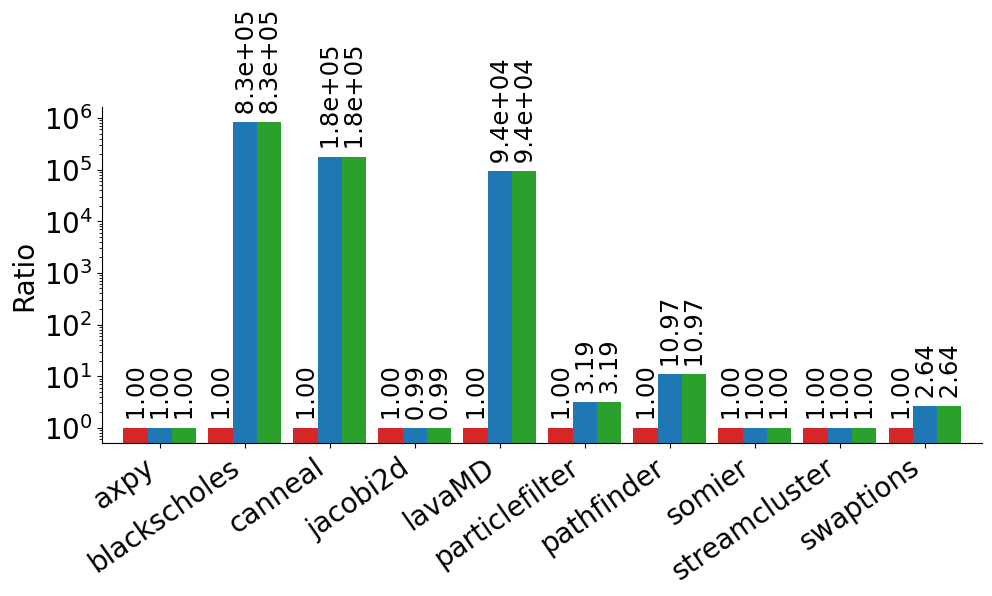
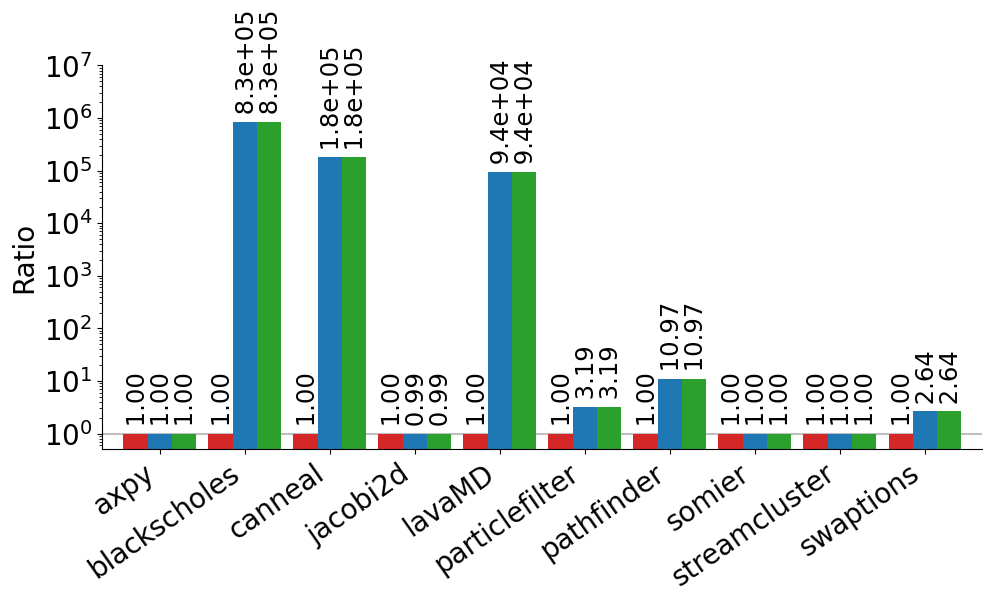
Formatted plots better

diff --git a/additionalPostProcessing/plot_ratios.py b/additionalPostProcessing/plot_ratios.py
@@ -1,7 +1,14 @@
+from matplotlib import ticker
 import pandas as pd
 import matplotlib.pyplot as plt
 import os
 
+def custom_formatter(value, pos):
+    if value < 1:
+        return f'{value:.3f}%'
+    else:
+        return f'{value:.0f}%'
+    
 def create_bar_plot(csv_file, output_dir='figures', plot_filename='bar_plot.png'):
     # Read the CSV file into a DataFrame
     df = pd.read_csv(csv_file)
@@ -29,10 +36,13 @@ def create_bar_plot(csv_file, output_dir='figures', plot_filename='bar_plot.png'
     # Customize the plot
     ax.set_xlabel('', fontsize=20)
     if 'ratio' in csv_file:
+        ax.set_ylim(top=10000000)
         ax.set_ylabel('Ratio', fontsize=20)
         # plt.title(f"Vectorization Ratio", fontsize=20, y=1.25)
     else:
+        ax.set_ylim(top=100)
         ax.set_ylabel('Percentage', fontsize=20)
+        ax.yaxis.set_major_formatter(ticker.FuncFormatter(custom_formatter))
         # plt.title(f"Percentage Of Vectorial Instructions", fontsize=20, y=1.25)
         
         
@@ -63,6 +73,7 @@ def create_bar_plot(csv_file, output_dir='figures', plot_filename='bar_plot.png'
     # ax.legend(loc='upper center', bbox_to_anchor=(0.5, -0.2), ncol=3)
     # ax.legend(loc='upper center', bbox_to_anchor=(0.5, -0.5), ncol=3, fontsize=17.5)
     ax.get_legend().remove()
+    
     
     # Ensure the output directory exists
     os.makedirs(output_dir, exist_ok=True)

diff --git a/additionalPostProcessing/plot_memory_overhead_pattern.py b/additionalPostProcessing/plot_memory_overhead_pattern.py
@@ -59,6 +59,8 @@ def create_bar_plot_loopbound_indexinrange(csv_file, plot_filename, output_dir):
     # ax.legend(loc='upper center', bbox_to_anchor=(0.5, -0.35), ncol=3, fontsize=17.5)
     ax.get_legend().remove()
     
+    ax.set_ylim(top=10000000)
+    
     # Ensure the output directory exists
     os.makedirs(output_dir, exist_ok=True)
     
@@ -128,6 +130,8 @@ def create_bar_plot_mul_pow(csv_file, plot_filename, output_dir):
     # ax.legend(loc='upper left', bbox_to_anchor=(1.02, 1), borderaxespad=0)
     # ax.legend(loc='upper center', bbox_to_anchor=(0.5, -0.5), ncol=3, fontsize=17.5)
     ax.get_legend().remove()
+    
+    ax.set_ylim(top=10000000)
     
     # Ensure the output directory exists
     os.makedirs(output_dir, exist_ok=True)

diff --git a/additionalPostProcessing/plot_memory_overhead.py b/additionalPostProcessing/plot_memory_overhead.py
@@ -57,6 +57,10 @@ def create_bar_plot(csv_file, plot_filename, output_dir):
     # ax.legend(loc='upper center', bbox_to_anchor=(0.5, -0.45), ncol=3, fontsize=17.5)
     ax.get_legend().remove()
     
+    ax.set_ylim(top=10000000)
+    plt.axhline(y=1, color='grey', alpha=0.5, zorder=0, linestyle='-')
+    
+    
     # Make title
     # name = csv_file.split("gc_")[1].split(".")[0]
     # name = name.replace("_", ".")

diff --git a/additionalPostProcessing/main.py b/additionalPostProcessing/main.py
@@ -9,7 +9,7 @@ scripts = [
     "memory_pattern_benchmarks.py",
     "plot_ratios.py",
     "plot_memory_overhead.py",
-    "plot_memory_overhead_pattern.py"
+    "plot_memory_overhead_pattern.py",
     "plot_speedup_factor.py",
 ]
 

diff --git a/additionalPostProcessing/plot_speedup_factor.py b/additionalPostProcessing/plot_speedup_factor.py
@@ -1,4 +1,3 @@
-from matplotlib.ticker import LogFormatterExponent
 import pandas as pd
 import matplotlib.pyplot as plt
 import os
